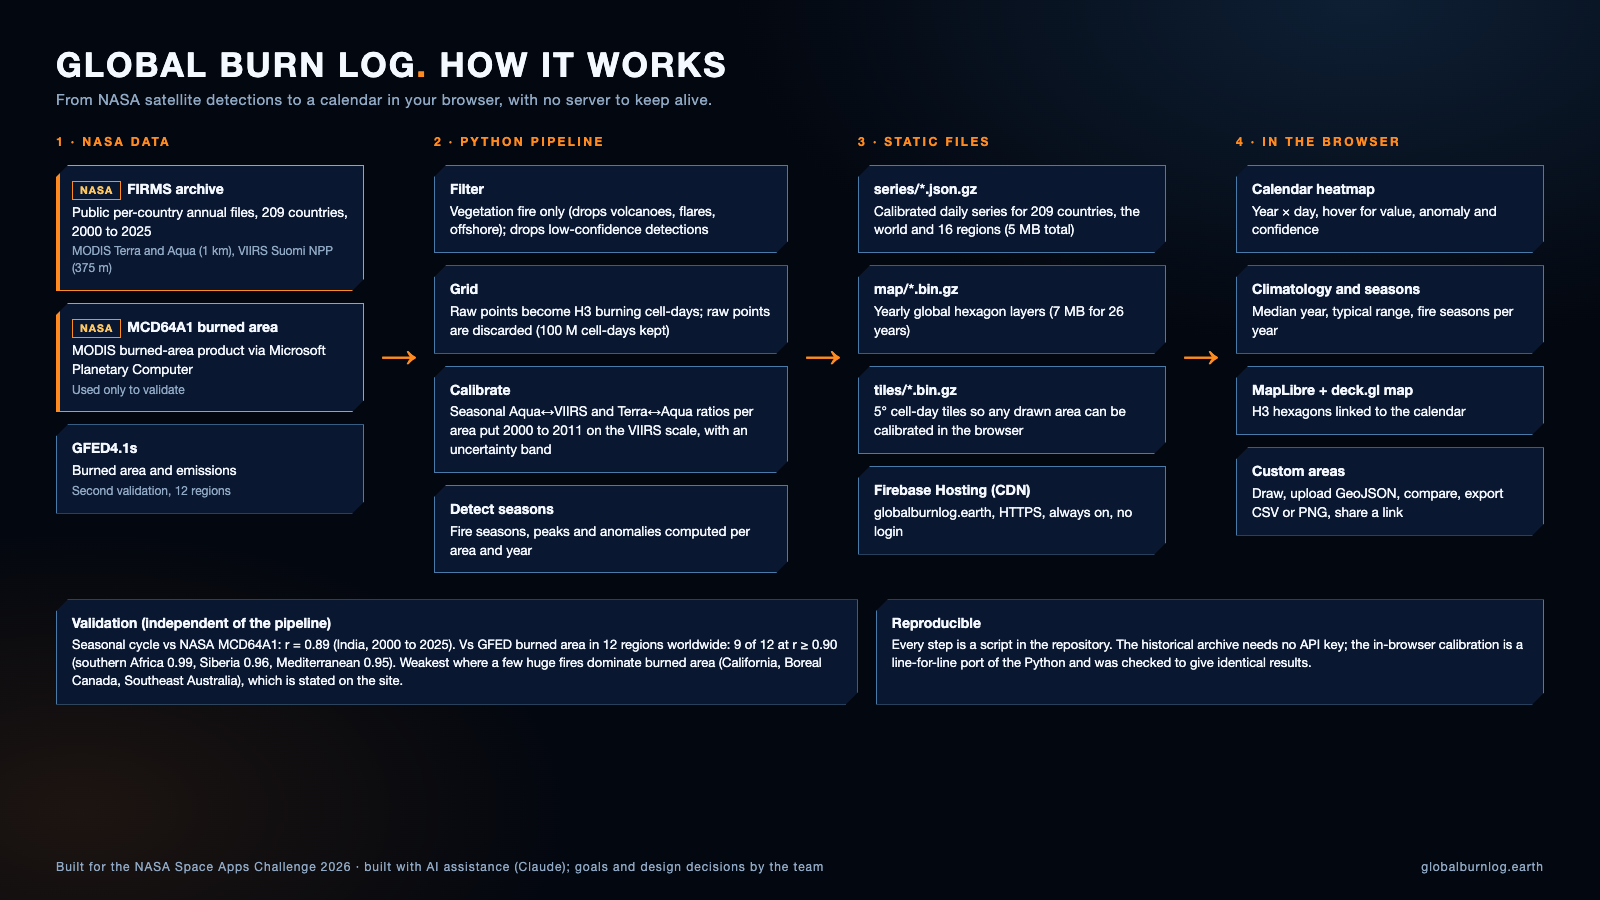
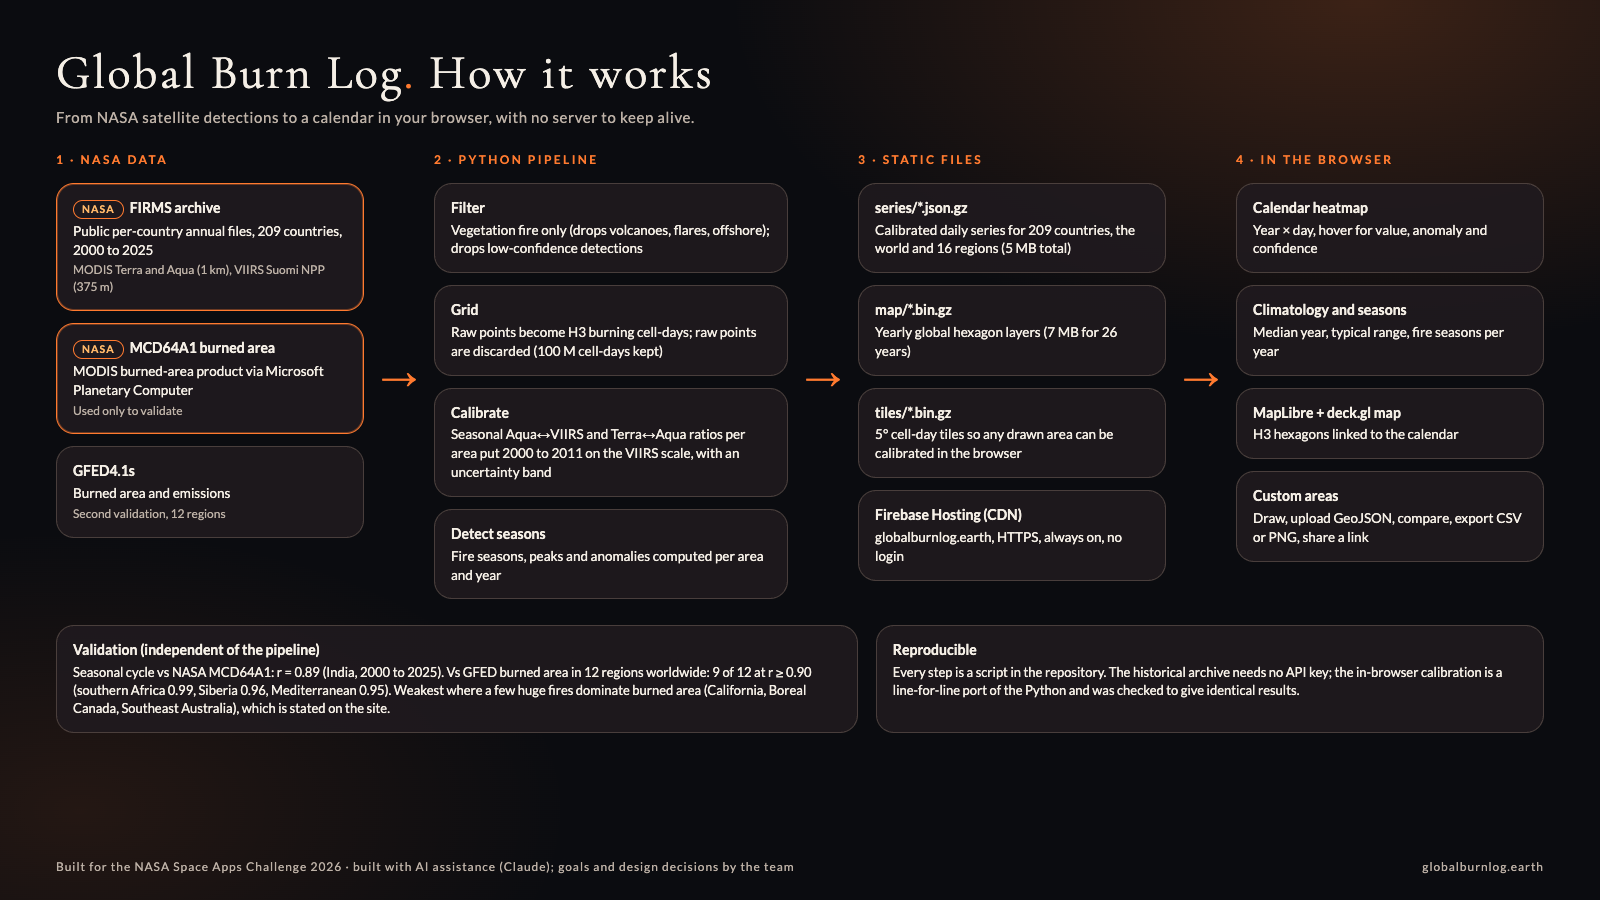
Refresh submission images for the redesign; style the country search input
Re-shoots the explorer, seasons, map and hero images from the live site in
the new look, restyles the architecture diagram to the same palette, and
fixes the country search input, which had no type attribute and so missed
its dark styling.

diff --git a/docs/submission/architecture.html b/docs/submission/architecture.html
@@ -3,26 +3,26 @@
 <head>
 <meta charset="utf-8" />
 <title>Global Burn Log architecture</title>
+<link href="https://fonts.googleapis.com/css2?family=Cormorant+Garamond:wght@400;500&family=Lato:wght@400;700;900&display=swap" rel="stylesheet" />
 <style>
-  :root { --bg:#03070f; --panel:#0a1730; --line:#4a7aa8; --ember:#ff8a1f; --hot:#ffc760; --text:#f4f8ff; --muted:#8fa8c4; }
+  :root { --bg:#0b0c10; --panel:rgba(32,26,31,.85); --line:rgba(230,200,170,.22); --ember:#ff7a2f; --hot:#ffb869; --text:#f5efe6; --muted:#bdb1a6; }
   * { box-sizing: border-box; }
-  body { margin:0; width:1600px; height:900px; background: radial-gradient(900px 500px at 85% 0%, rgba(63,140,220,.18), transparent 70%), radial-gradient(700px 400px at 5% 90%, rgba(255,138,31,.10), transparent 70%), var(--bg);
-    color:var(--text); font-family: "Montserrat", "Helvetica Neue", Arial, sans-serif; padding:44px 56px; }
-  h1 { margin:0; font-size:34px; font-weight:800; letter-spacing:.06em; text-transform:uppercase; }
+  body { margin:0; width:1600px; height:900px; background: radial-gradient(900px 500px at 85% 0%, rgba(255,122,47,.20), transparent 70%), radial-gradient(700px 400px at 5% 90%, rgba(255,122,47,.10), transparent 70%), var(--bg);
+    color:var(--text); font-family: "Lato", "Helvetica Neue", Arial, sans-serif; padding:44px 56px; }
+  h1 { margin:0; font-family:"Cormorant Garamond", Georgia, serif; font-size:48px; font-weight:400; letter-spacing:.05em; }
   h1 span { color:var(--ember); }
   .sub { margin:6px 0 26px; color:var(--muted); font-size:15px; letter-spacing:.04em; }
   .row { display:grid; grid-template-columns: 1fr 70px 1.15fr 70px 1fr 70px 1fr; align-items:stretch; }
   .col { display:flex; flex-direction:column; gap:12px; }
   .col > h2 { margin:0 0 4px; font-size:12px; letter-spacing:.2em; text-transform:uppercase; color:var(--ember); font-weight:700; }
-  .box { background:var(--panel); border:1px solid var(--line); padding:13px 15px; font-size:13.5px; line-height:1.4;
-    clip-path: polygon(0 12px,12px 0,100% 0,100% calc(100% - 12px),calc(100% - 12px) 100%,0 100%); }
+  .box { background:var(--panel); border:1px solid var(--line); padding:14px 16px; font-size:13.5px; line-height:1.4; border-radius:18px; }
   .box b { display:block; font-size:14px; margin-bottom:3px; }
   .box small { color:var(--muted); display:block; margin-top:3px; font-size:12px; }
-  .nasa { border-color:var(--ember); box-shadow: inset 3px 0 0 var(--ember); }
+  .nasa { border-color:var(--ember); box-shadow: 0 0 0 1px rgba(255,122,47,.35) inset; }
   .arrow { display:flex; align-items:center; justify-content:center; color:var(--ember); font-size:36px; font-weight:300; }
   .band { margin-top:26px; display:grid; grid-template-columns: 1.2fr 1fr; gap:18px; }
   .band .box { font-size:13px; }
-  .tag { display:inline-block; padding:1px 7px; margin-right:6px; border:1px solid var(--ember); color:var(--hot); font-size:10.5px; letter-spacing:.1em; text-transform:uppercase; font-weight:700; }
+  .tag { display:inline-block; padding:1px 8px; margin-right:6px; border-radius:999px; border:1px solid var(--ember); color:var(--hot); font-size:10.5px; letter-spacing:.1em; text-transform:uppercase; font-weight:700; }
   .foot { position:absolute; left:56px; right:56px; bottom:26px; display:flex; justify-content:space-between; color:var(--muted); font-size:12px; letter-spacing:.08em; }
 </style>
 </head>

diff --git a/app/src/styles.css b/app/src/styles.css
@@ -188,7 +188,7 @@ h1, h2, h3 { font-family: var(--serif); font-weight: 400; letter-spacing: 0.01em
 .label { display: block; margin-bottom: 6px; color: var(--muted); }
 .field { display: flex; flex-direction: column; gap: 4px; min-width: 0; }
 .field.grow { flex: 2 1 220px; }
-.field select, .field input[type="text"], .field input[type="search"] {
+.field select, .field input:not([type="range"]) {
   width: 100%; min-height: 46px; padding: 10px 14px;
   background: rgba(10, 8, 12, 0.6); color: var(--cream); border: 1px solid var(--line); border-radius: 999px;
   font: inherit; font-size: 13.5px;

diff --git a/docs/submission/SLIDES.md b/docs/submission/SLIDES.md
@@ -10,7 +10,7 @@ Do not use NASA logos or mission identifiers anywhere. If a slide uses an AI-gen
 4. **Data from NASA.** FIRMS (MODIS Terra and Aqua, VIIRS Suomi NPP), 209 countries, 2000 to 2025, 100 million cell-days. MCD64A1 for validation. Mark NASA sources clearly.
 5. **How we harmonise.** Image: `1_before_after_harmonisation.png`. One sentence: Aqua and VIIRS overpass at the same local time, so their ratio isolates the sensor effect; apply it back to 2000 to 2011 with an uncertainty band.
 6. **The product.** Image: `2_ui_explorer.png`. Callouts: calendar heatmap, anomaly view, fire seasons, map, draw any area, compare, export, shareable links.
-7. **Demo moment: Punjab and Haryana.** Autumn 2025 began around 13 October (about 13 days later than usual) and was the lowest of 25 years (-63% against a typical autumn). Image: `ui_charts.png`.
+7. **Demo moment: Punjab and Haryana.** Autumn 2025 began around 13 October (about 13 days later than usual) and was the lowest of 25 years (-63% against a typical autumn). Image: `ui_seasons.png`.
 8. **Validation.** Image: `4_validation_global.png`. 9 of 12 regions at seasonal r of 0.90 or better; MCD64A1 r = 0.89 for India. Be upfront about the three weak regions and why (a few huge fires dominate burned area).
 9. **How it is built.** Image: `3_architecture.png`. Static files on a CDN, no server, no login, always up; reproducible pipeline; calibration verified identical in the browser and in Python.
 10. **Impact, limits and next steps.** Limits: cell-days are not area burned; 2000 to 2011 are estimates; NOAA-20/21 and 2026 not yet included. Next: add NOAA-20/21, near-real-time early-warning banner, biome-specific calibration. Closing: link, QR code to globalburnlog.earth, team names, AI disclosure line ("Built with AI assistance (Claude) for planning and code; goals and design decisions by the team").
